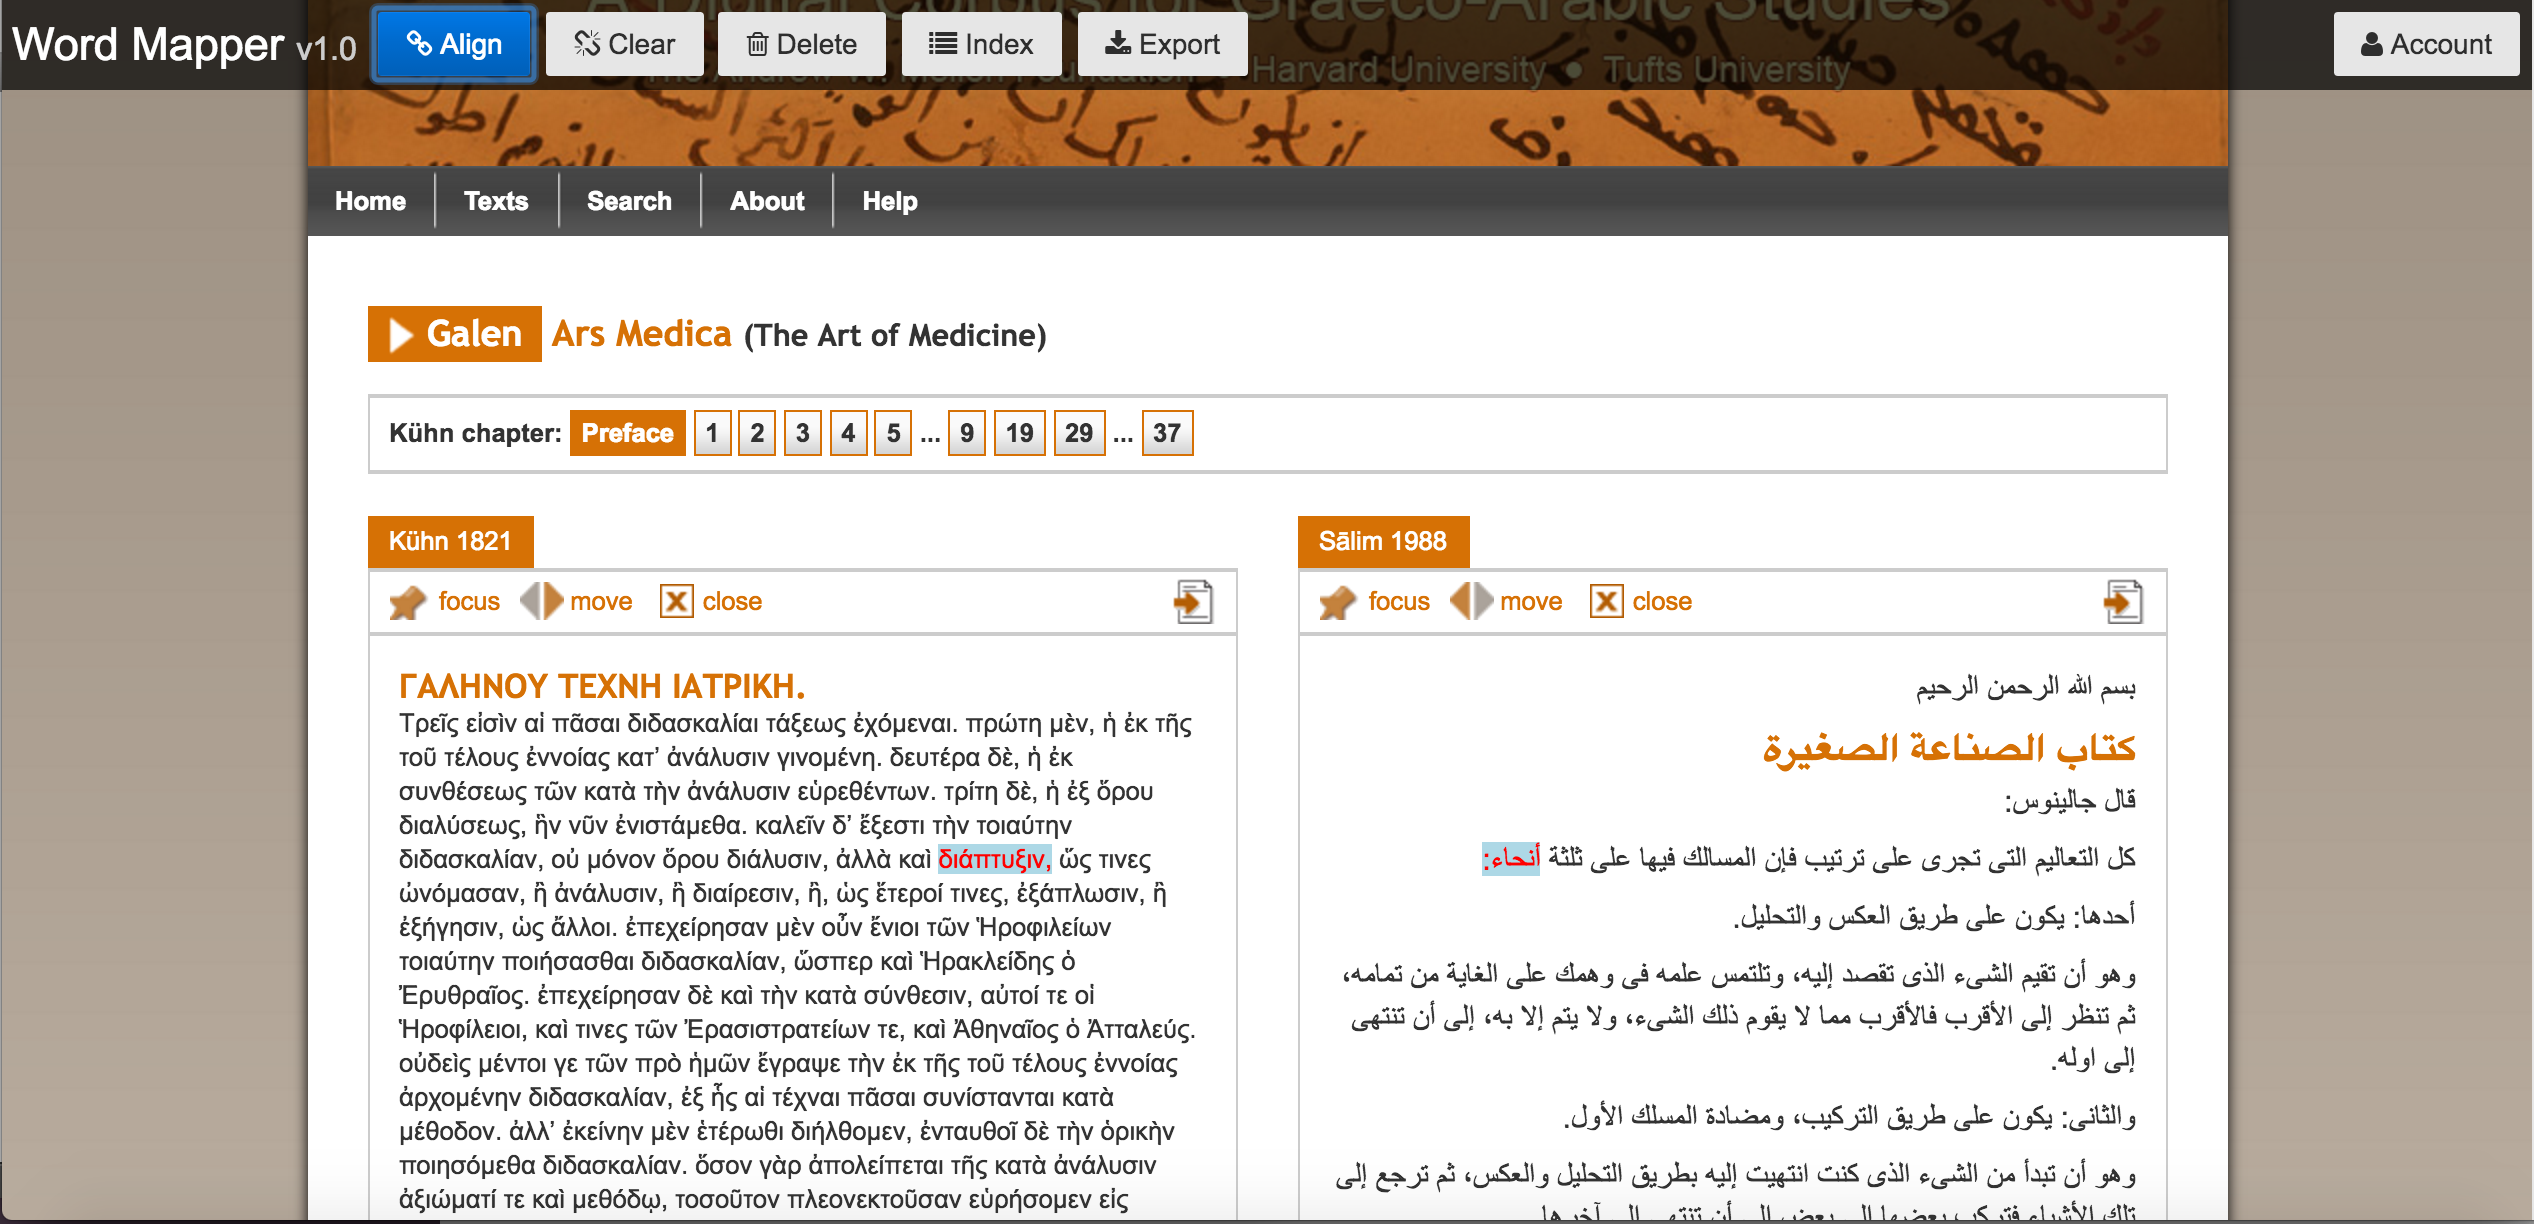
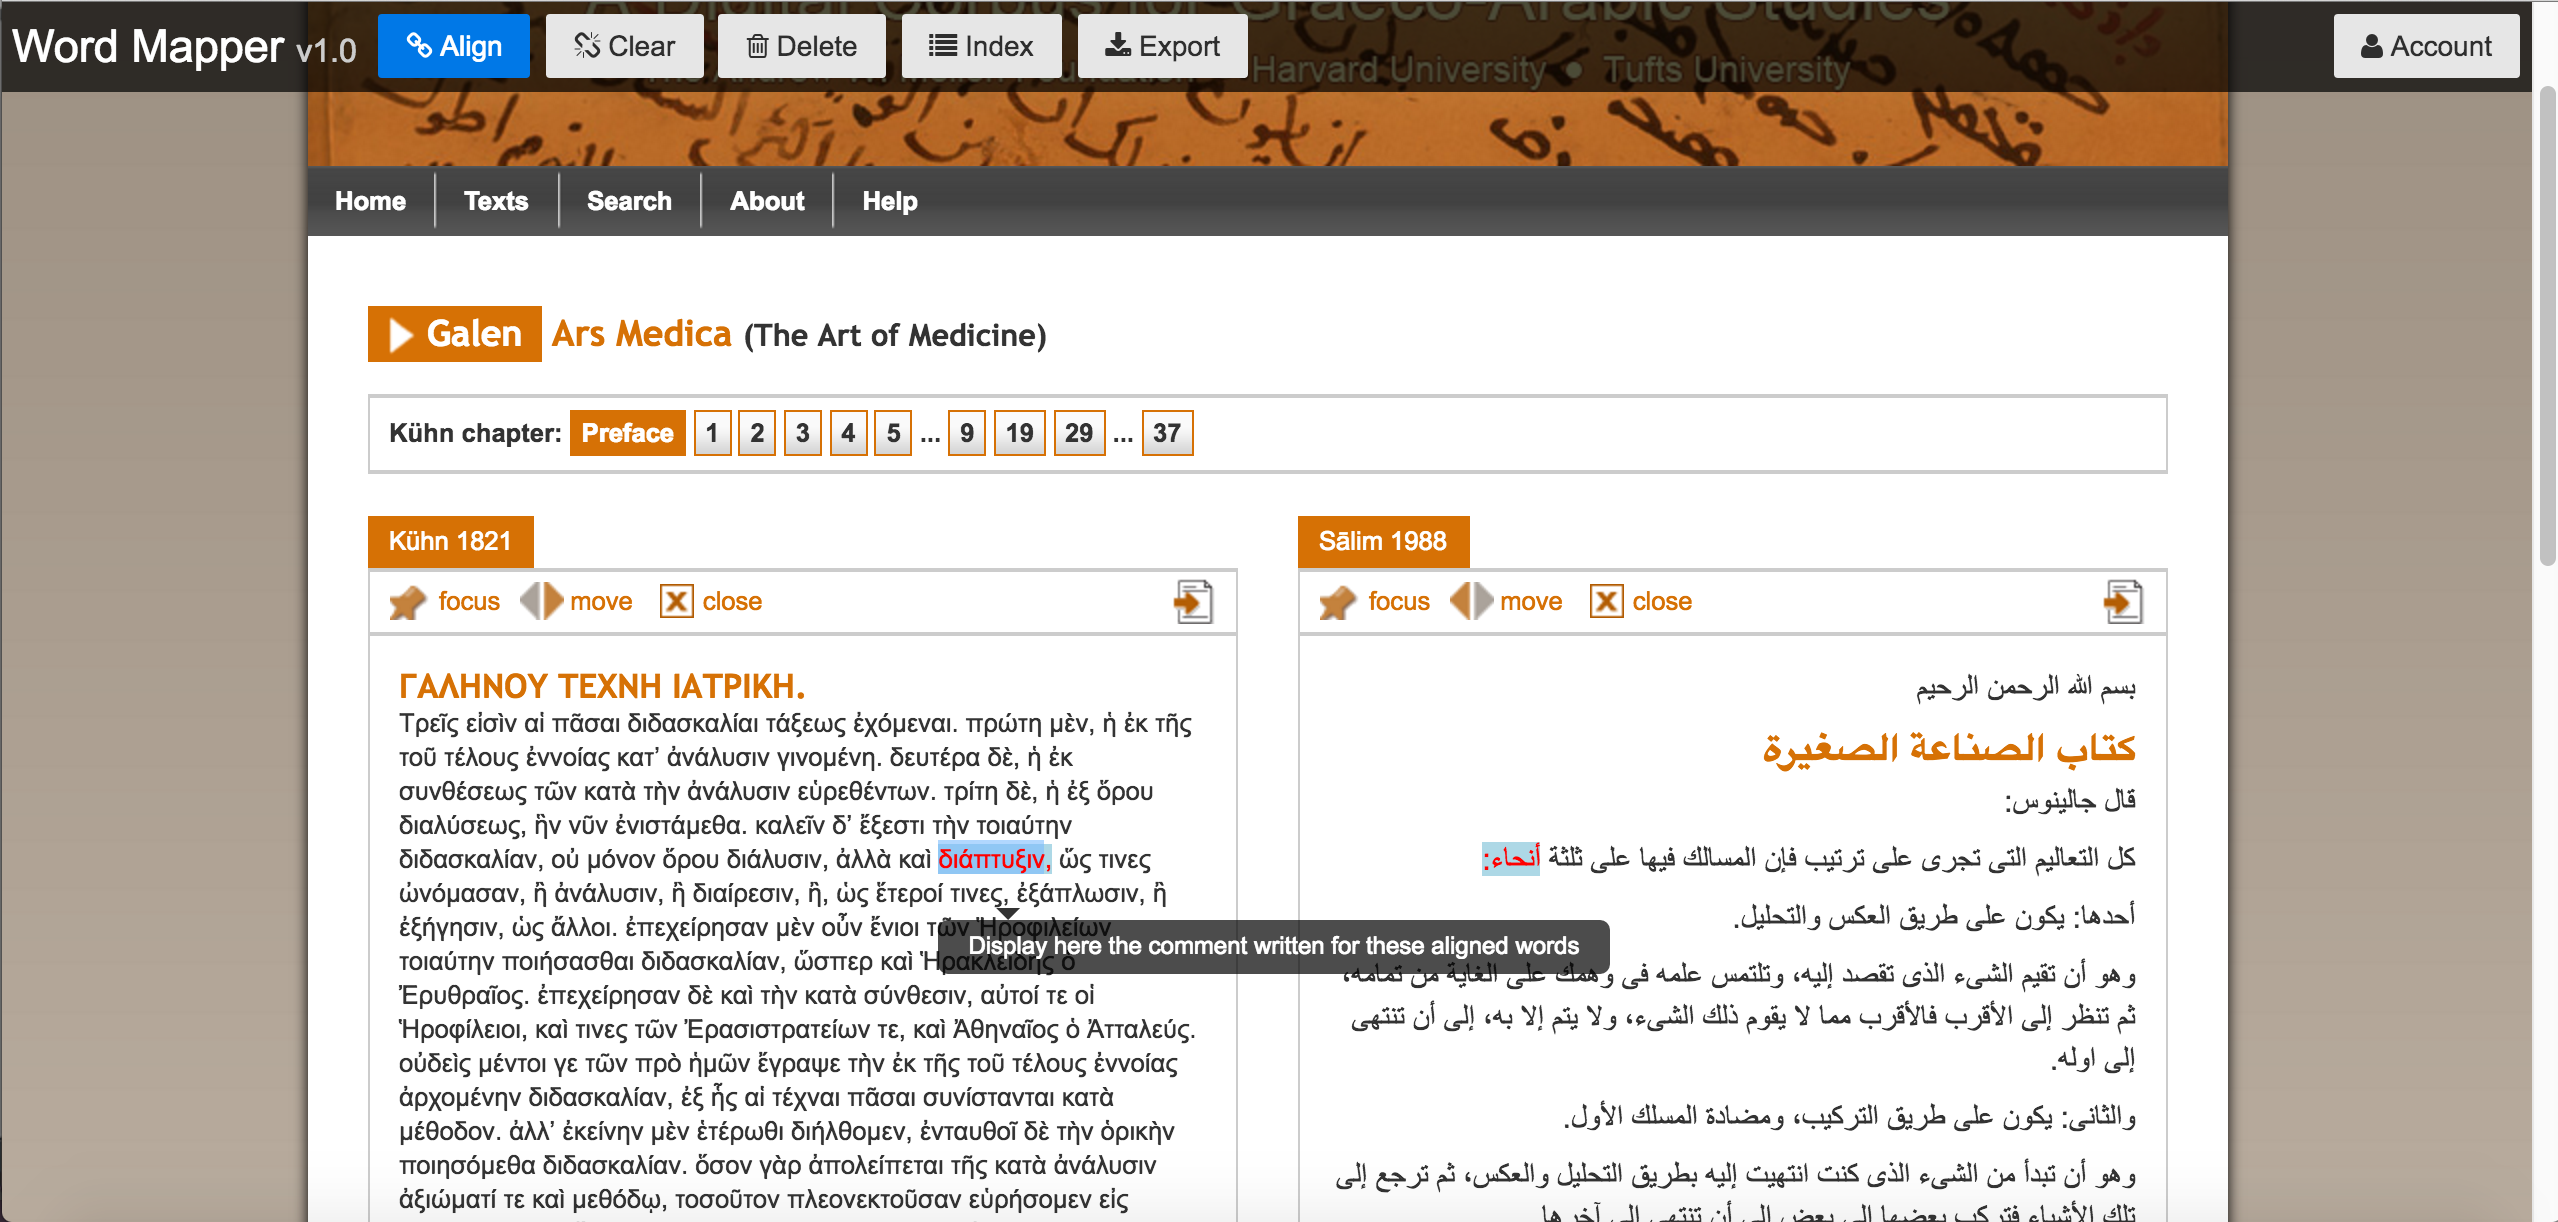
WordWrapper_tooltip_commment, proposed interface and UI code

diff --git a/WordWrapper_tooltip_commment/index.html b/WordWrapper_tooltip_commment/index.html
@@ -3,7 +3,10 @@
 	<span class="wordmapper-word" data-word="49" data-source="0">διάλυσιν,</span> 
 	<span class="wordmapper-word" data-word="50" data-source="0">ἀλλὰ</span> 
 	<span class="wordmapper-word" data-word="51" data-source="0">καὶ</span> 
-	<span class="wordmapper-word aligned" data-word="52" data-source="0" data-alignment="local-1">διάπτυξιν,</span> 
+
+<!-- UI comment - adding tooltip with comment -->
+	<span class="wordmapper-word aligned wordmapper-tooltip" alt="Display here the comment written for these aligned words" data-word="52" data-source="0" data-alignment="local-1">διάπτυξιν,</span> 
+	
 	<span class="wordmapper-word" data-word="53" data-source="0">ὥς</span> 
 	<span class="wordmapper-word" data-word="54" data-source="0">τινες</span> 
 	<span class="wordmapper-word" data-word="55" data-source="0">ὠνόμασαν,</span>
